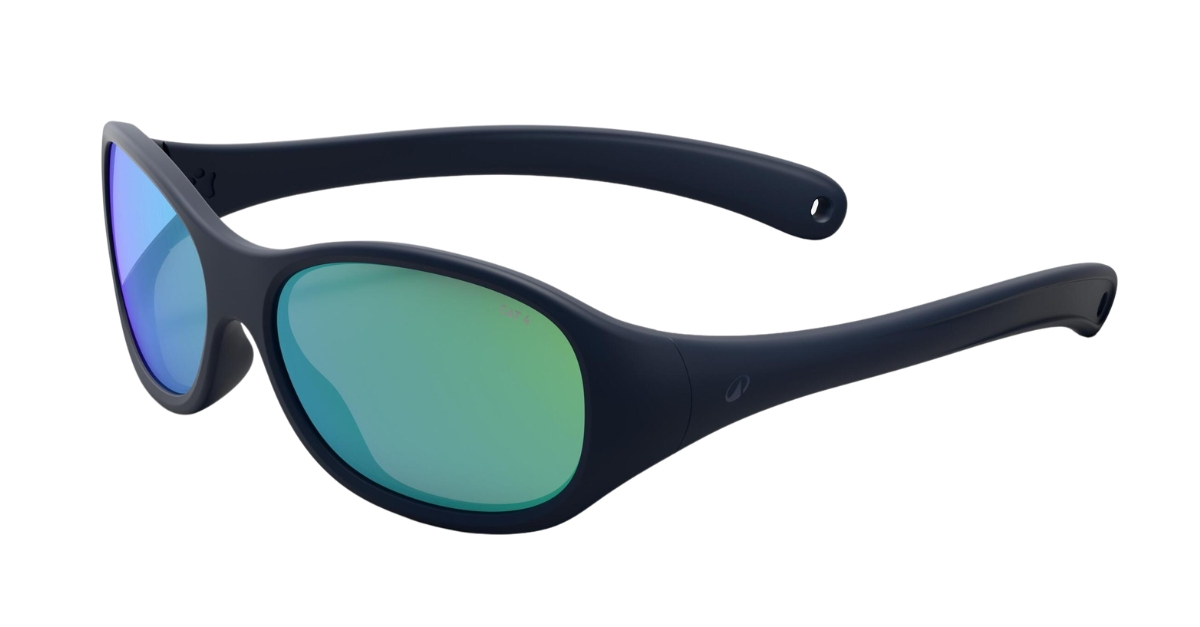
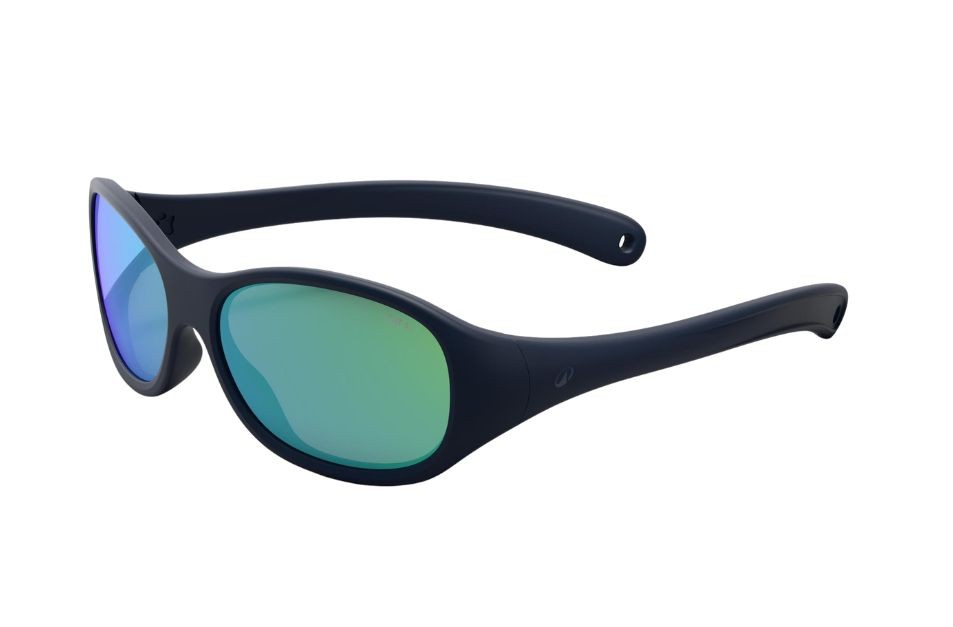
Improve image cards visual

Changed region(s): [[0.0609, 0.1818, 0.9433, 0.8788]]

diff --git a/app/blog/uv-kids/page.tsx b/app/blog/uv-kids/page.tsx
@@ -63,6 +63,7 @@ const eyewearExamples = [
     title: "Category 4",
     summary: "Maximum protection (not for driving).",
     image: "/assets/category-4.jpg",
+
   },
 ];
 
@@ -186,20 +187,24 @@ export default function PhotokeratitisPost() {
                   {eyewearExamples.map((item) => (
                     <div
                       key={item.title}
-                      className="rounded-[var(--radius)] border border-[var(--border)] bg-white"
+                      className="overflow-hidden rounded-[var(--radius)] border border-[var(--border)] bg-white shadow-[0_6px_16px_rgba(0,0,0,0.08)] transition-shadow hover:shadow-[0_10px_22px_rgba(0,0,0,0.12)]"
                     >
-                      <div className="relative aspect-[4/3] overflow-hidden rounded-t-[var(--radius)] bg-[var(--surface)]">
+                      <div className="relative aspect-[4/3] overflow-hidden bg-[var(--surface)]">
                         {item.image ? (
                           <Image
                             src={item.image}
                             alt={`${item.title} sunglasses example`}
                             fill
                             sizes="(max-width: 640px) 100vw, (max-width: 1024px) 50vw, 33vw"
-                            style={{ objectFit: "cover" }}
+                            style={{
+                              objectFit: "cover",
+                              objectPosition: item.objectPosition ?? "center",
+                            }}
                           />
                         ) : null}
+                        <div className="absolute inset-0 bg-linear-to-t from-black/10 via-black/0 to-black/0" />
                       </div>
-                      <div className="p-4">
+                      <div className="border-t border-[var(--border)] p-4">
                         <h4 className="text-base font-semibold text-[#1f1f1f]">
                           {item.title}
                         </h4>